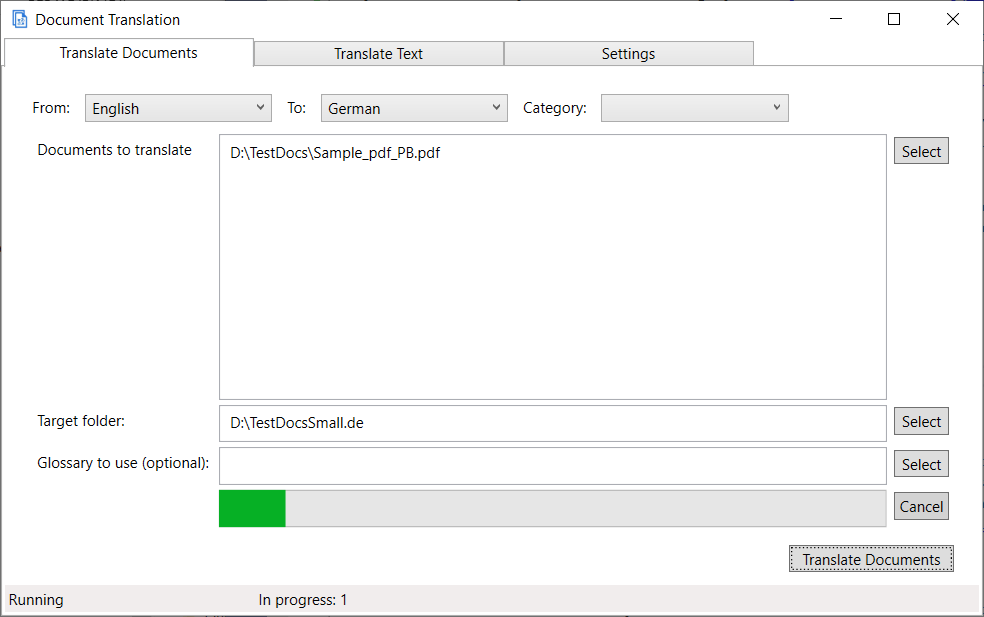
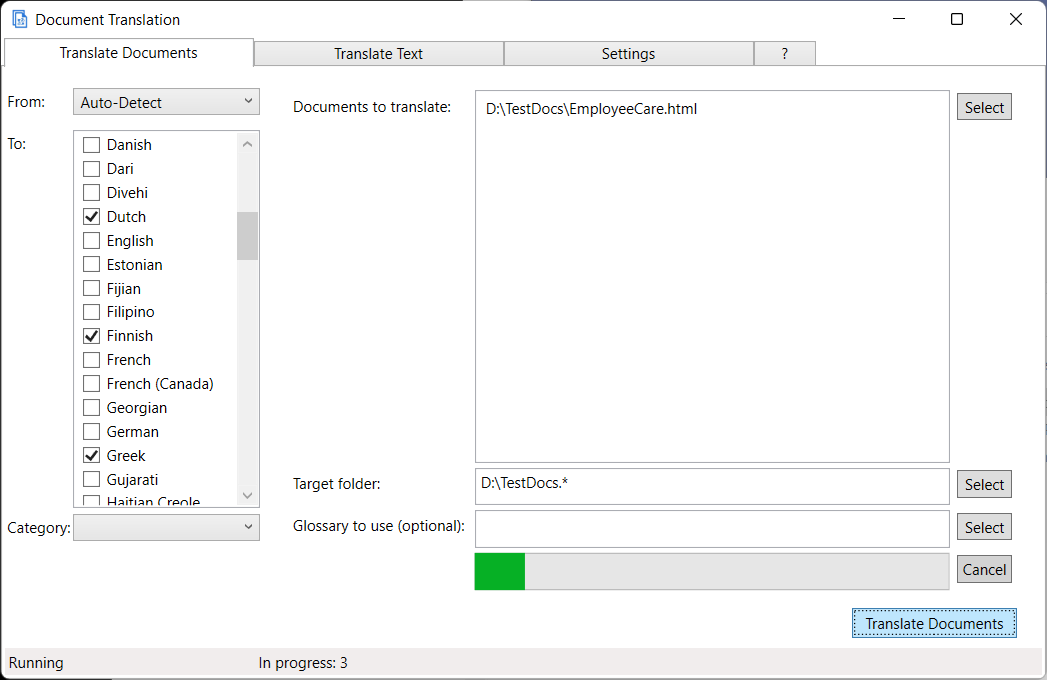
Version update to 0.8.7.0. Documentation update to multi-target document translation.

diff --git a/docs/index.md b/docs/index.md
@@ -33,7 +33,8 @@ It will install the document translation tool on your Windows computer.
 - An Azure subscription
 - A Translator resource with a pricing tier of S1 or higher
 - A Blob storage resource in your Azure subscription
-- A Windows 10 or later operating system able to run .Net 5. If it fails, install .Net 5 manually from https://dotnet.microsoft.com/download/dotnet/5.0.
+- A Windows 10 or later operating system able to run .Net 5.
+If it fails, install .Net 5 manually from https://dotnet.microsoft.com/download/dotnet/5.0.
 
 #### How to obtain the service credentials
 
@@ -127,11 +128,13 @@ Choose your local documents that you want to translate. Pressing "Select" opens 
 to translate as you like, up to 1000.
 Additional limits are documented in [API documentation: Limits](https://docs.microsoft.com/azure/cognitive-services/translator/document-translation/get-started-with-document-translation?tabs=csharp#content-limits)
 
-Choose a folder to store the translated documents in. You may choose any folder on your computer.
-If you have translated to this language before, the app will suggest using the same folder as last time you translated to this target language.
+Choose a folder to store the translated documents in. You may choose any folder on your computer,
+or any network folder that you have create and write permissions to.
+If you are translating to a single language and have translated to this language before,
+the app will suggest using the same folder as last time you translated to this target language.
 
 You may optionally provide a glossary of words or phrases you want to have translated in a specific way. Add only words and phrases that you are sure must
-be translated a certain way, and only those that do not translate naturally as intended. Works well for compound nouns like product names or
+be translated a certain way, and only those that do not translate naturally as intended. This works best for compound nouns like product names or
 phrases that shall remain untranslated.
 
 You can supply a simple mapping file like this, as a TSV (tab separated variables) file:
@@ -147,7 +150,6 @@ The status bar at the bottom gives an indication of the status of the translatio
 
 After the progress bar reaches 100%, you can retrieve your documents in the target location.
 
-You are now ready for the next language or the next batch of documents to translate. 
 
 -----------------------
 ## Command Line Interface

diff --git a/README.md b/README.md
@@ -5,21 +5,25 @@ Supported formats include HTML, PDF, all Office document formats, Markdown and p
 The complete [list of document formats is here](https://docs.microsoft.com/azure/cognitive-services/translator/document-translation/overview#supported-document-formats).
 
 You can select up to 1000 files and translate them to a different language with a single command.
-The Windows UI gives you options to comfortably select source files, target language, and the folder you want to deposit the translations in.
+The Windows UI gives you options to comfortably select source files, one or more target languages, and the folder you want to deposit the translations in.
 It comes with a command line utility that does the same thing using a command line interface. 
 Document Translation uses the Azure Translator Service to perform the translations. You need a subscription to Azure, and register
-a Translator resource as well as a storage resource. [The documentation](https://microsofttranslator.github.io/DocumentTranslation) gives detailed instructions on how to obtain those. 
+a Translator resource as well as a storage resource. [The documentation](https://microsofttranslator.github.io/DocumentTranslation) gives
+detailed instructions on how to obtain those. 
 
 For the translation you can specify a glossary (custom dictionary) to use. You can also make use of a custom translation system
 you may have built with [Custom Translator](http://customtranslator.ai).
 
-**Main UI**
+**Document Translation  UI**
+
+The main UI provides document translation: Multiple documents to multiple languages.
 
 ![Main UI](docs/images/Running.png)
 
-A simple copy-and-paste text translation interface is present in the Windows UI. 
 
 **Text Translation UI**
+
+A simple copy-and-paste text translation interface is present in the Windows UI. 
 
 ![Text Translate](docs/images/TextTranslate.png)
 
@@ -71,8 +75,9 @@ quickly - or reject with comments.
 ## Future plans
 
 - Option to extend the set of file formats with format conversions that are processed locally, as a library within this tool.
-- Authentication with Azure Actove Directory
-- Upgrade to .Net 6 when it becomes generally available. 
+- Authentication with Azure Active Directory
+- Upgrade to .Net 6
+- Upgrade to .Net 6 MAUI when it becomes available
 
 
 ## Credits
